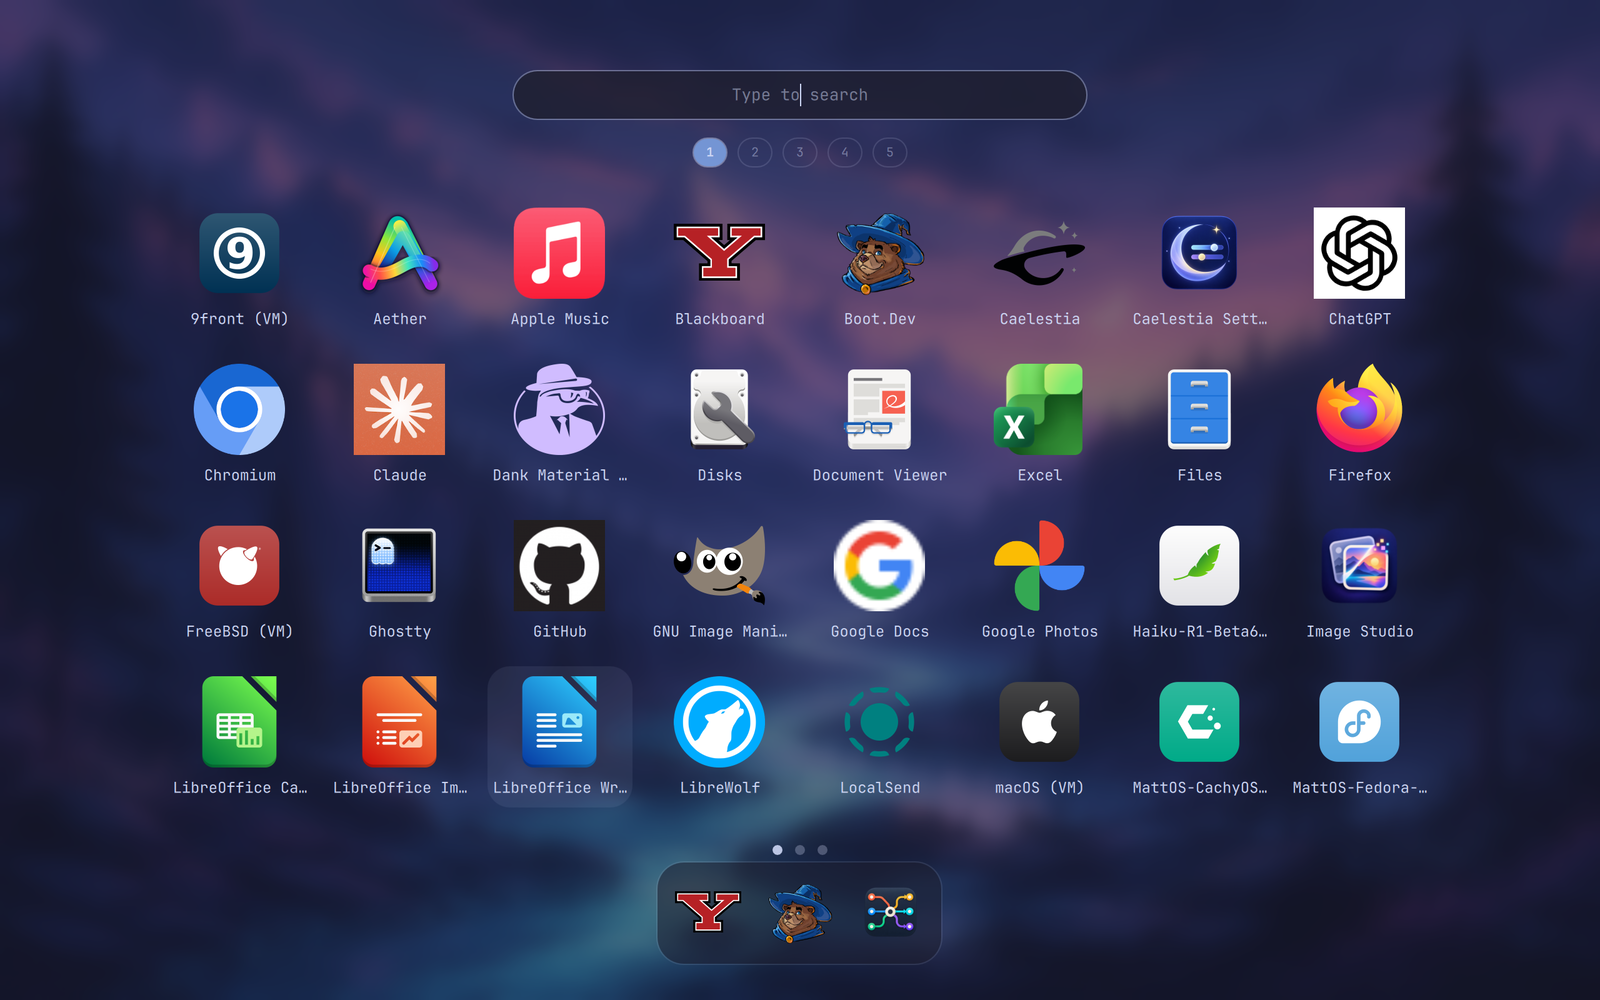
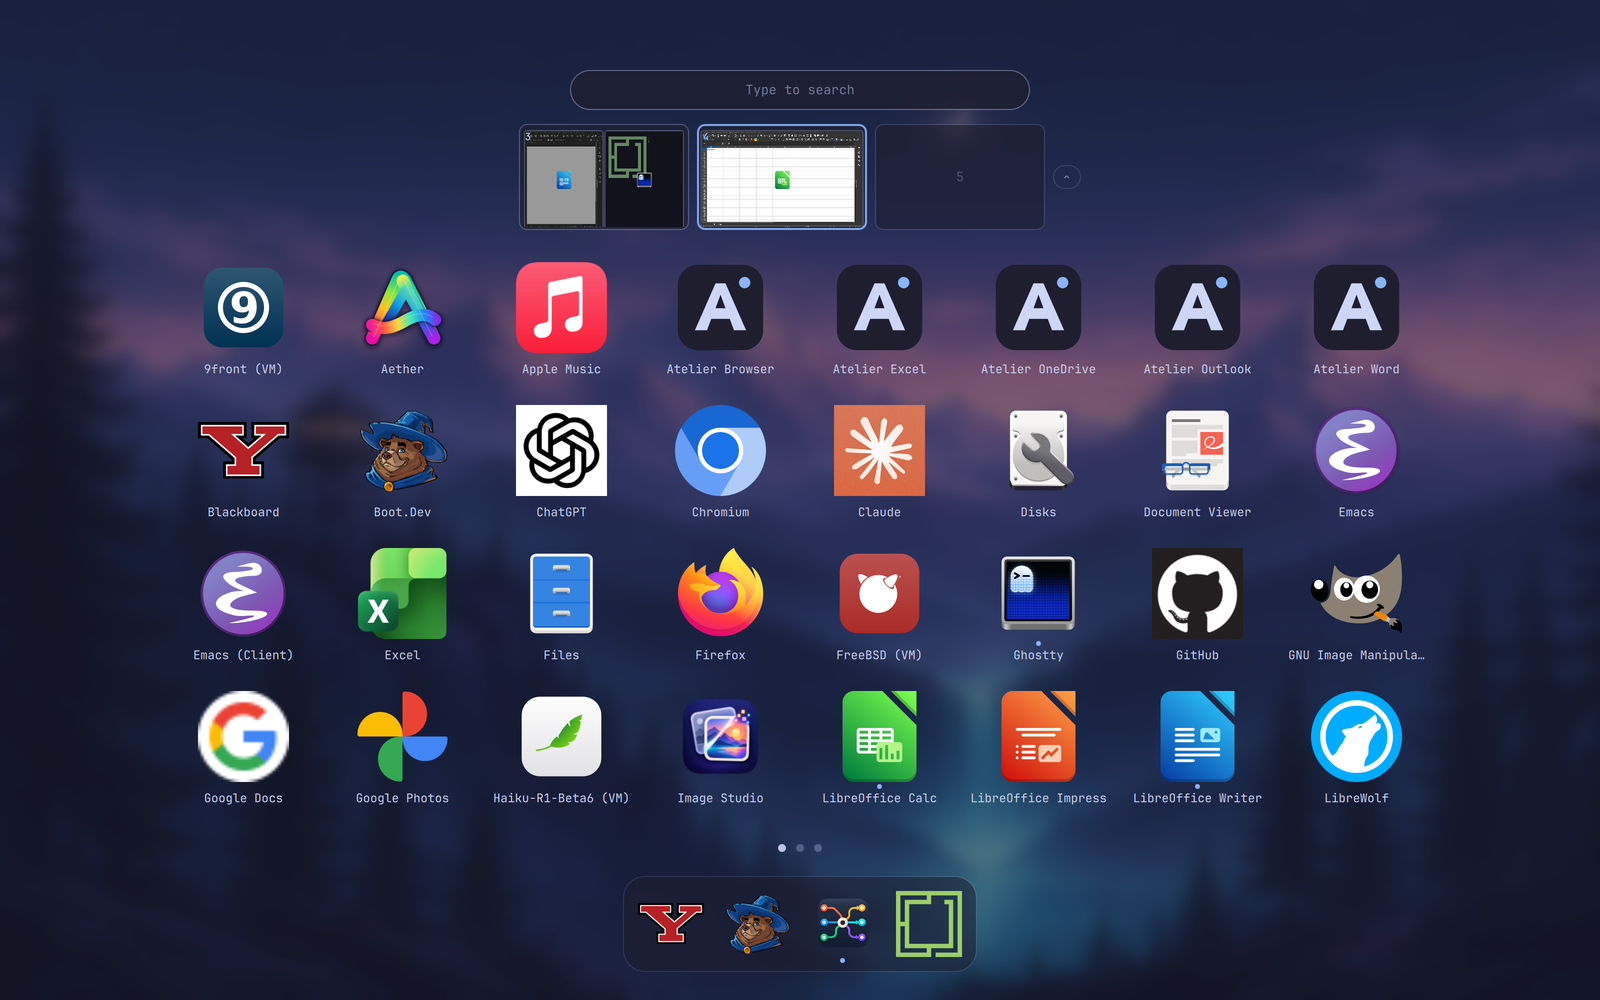
README: workspace cards in the screenshot; drag to move, middle-click or × to close

diff --git a/README.md b/README.md
@@ -5,7 +5,7 @@ as an omarchy-shell plugin. Paged icons, search, a favourites dash, folders,
 drag to reorder, and a workspace overview with live window previews — opened
 with a key or a 3-finger swipe up that follows your fingers the whole way.
 
-![The app grid open over the wallpaper](preview.png)
+![The app grid open over the wallpaper, with the workspace cards expanded](preview.png)
 
 Built against Omarchy 4.0.4 (Hyprland 0.56.2, Quickshell 0.3.1).
 
@@ -79,7 +79,10 @@ workspaces, with the icons of the apps open on each. Click a pill or press
 Click the chevron at the end of the strip (or `Ctrl+Down`; `Ctrl+Up` folds it)
 to open the pills into cards that show each workspace's windows where they sit,
 with live previews. Hover a window for its title, click it to jump straight to
-it. Previews only run while the cards are open; folded, the strip costs
+it. Drag a window onto another card to move it there; middle-click it (or
+hover and click its ×) to close it. Closing asks the app nicely, so one with
+unsaved work shows its own save prompt — behind the grid, until you dismiss
+the grid. Previews only run while the cards are open; folded, the strip costs
 nothing.
 
 Everything you arrange lives in
